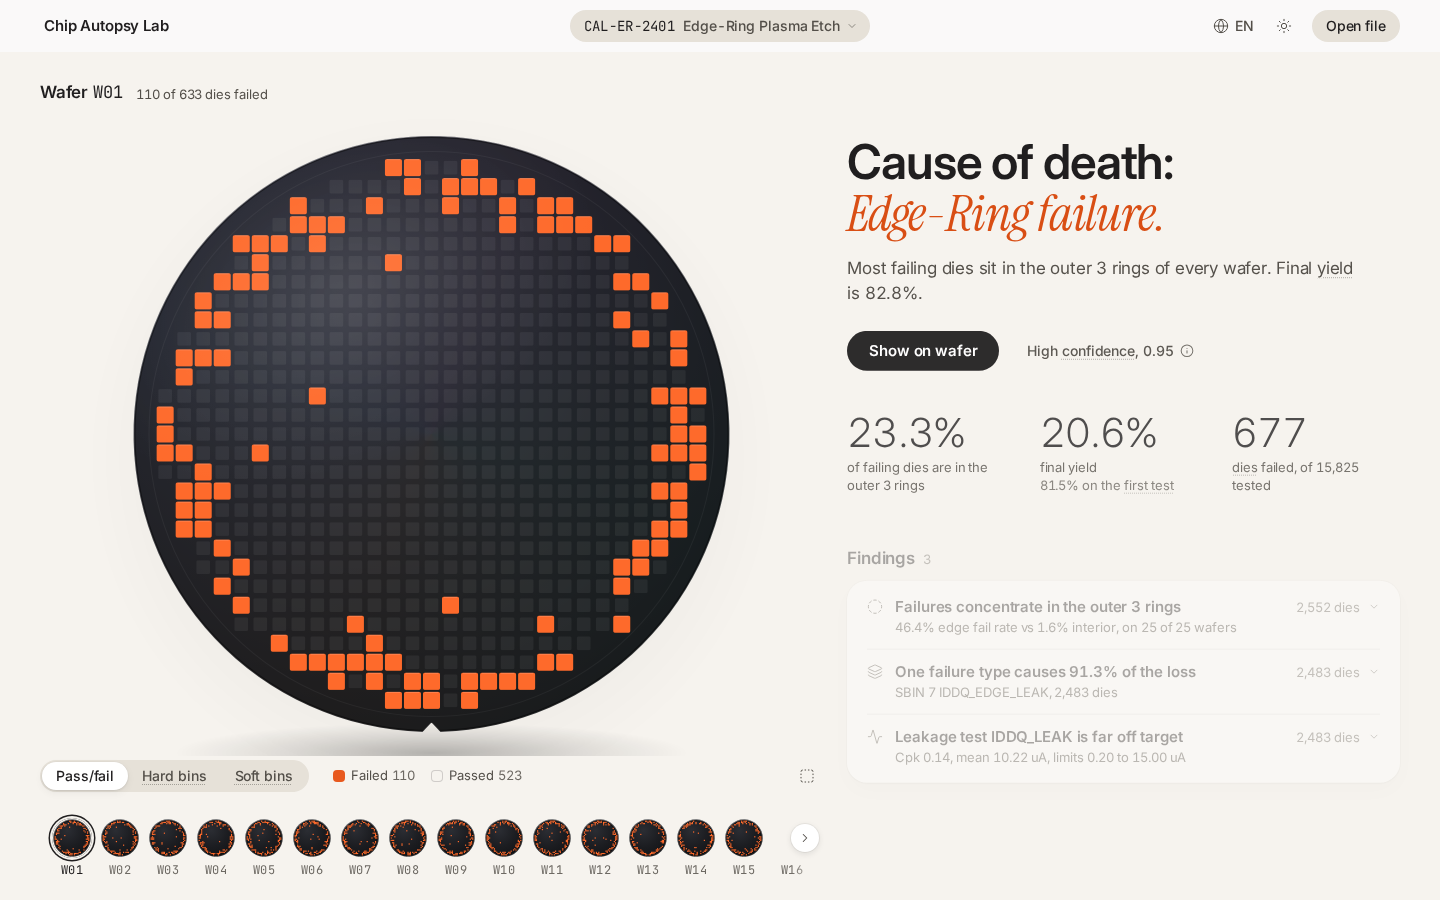
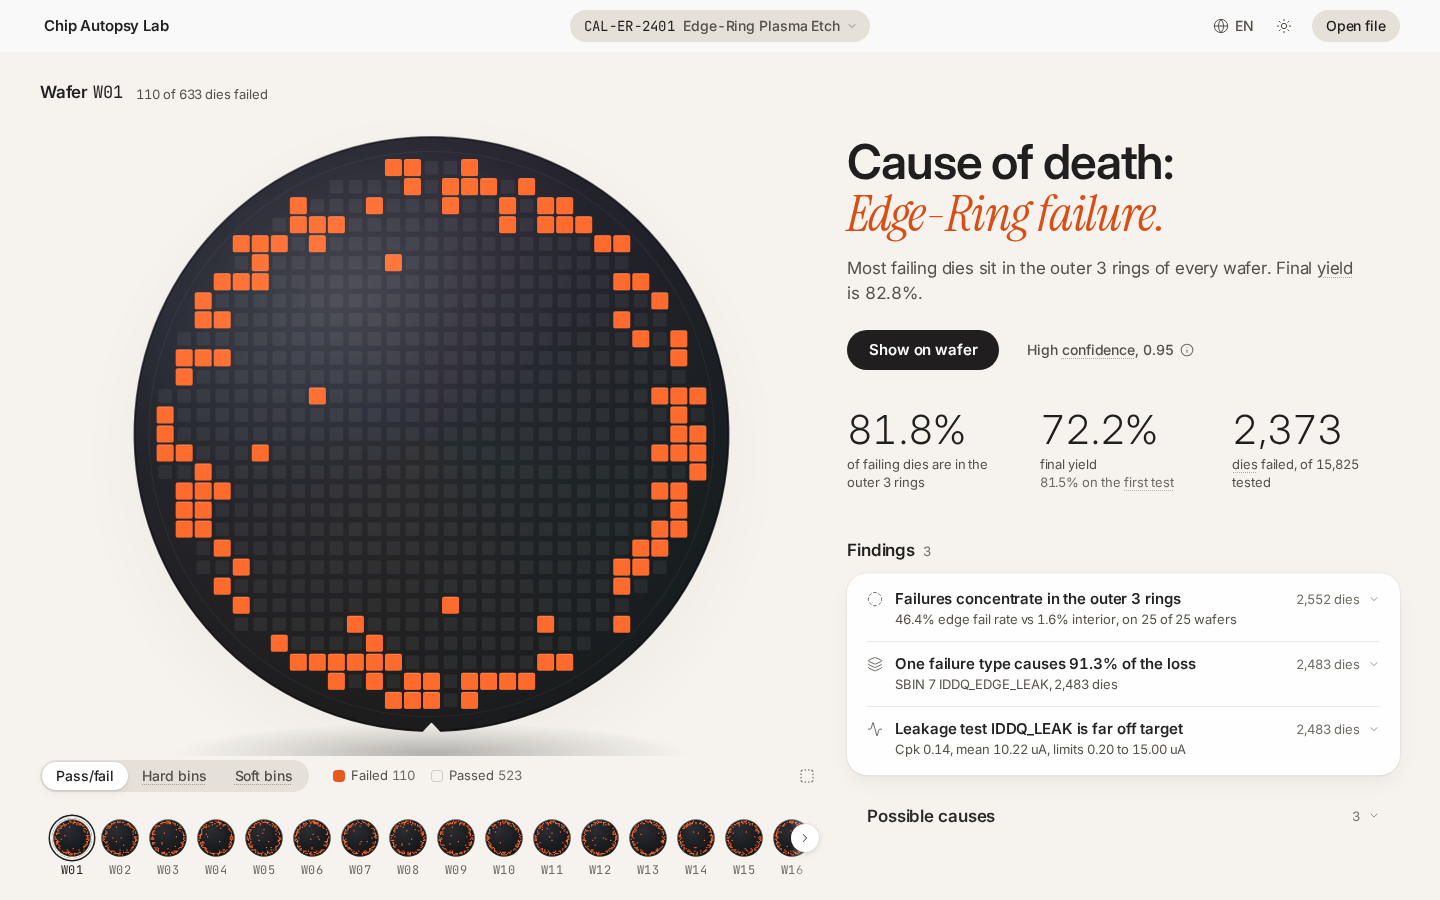
p28-cont (Kiro claude-opus-5.5)

diff --git a/e2e/loaded-desktop-p12.spec.ts b/e2e/loaded-desktop-p12.spec.ts
@@ -19,6 +19,17 @@ async function loadDemo(page: Page, width: number, height: number, presetId: str
   });
   await expect(page.getByTestId('verdict-headline')).toBeVisible();
   await expect(page.getByTestId('autopsy-hypotheses-toggle')).toBeVisible();
+  // Measure final geometry: wait for the §8.2 verdict rise-in to settle (no block still moving)
+  await page.waitForFunction(() => {
+    const blocks = document.querySelectorAll<HTMLElement>('[data-verdict-rise-block]');
+    return (
+      blocks.length === 6 &&
+      Array.from(blocks).every((el) => {
+        const cs = getComputedStyle(el);
+        return cs.opacity === '1' && (cs.transform === 'none' || /, 0\)$/.test(cs.transform));
+      })
+    );
+  });
 }
 
 async function measure(page: Page) {

diff --git a/logs/progress.md b/logs/progress.md
@@ -219,3 +219,8 @@
 - Probe sweep and ignite per premium §8.1, §8.16. The session flag is now `sessionStorage["cal.sweep.v1"]` (was `cal.sweep.seen`, so the e2e specs that set `cal.sweep.v1` now really skip the sweep). Pacing is `p(t) = min(parse, t / 900 ms)` (linear, was ease-in-out sine). The `probe-light` sprite is white 0.28 gaussian with radius 3 pitches (was 35 % ice blue, 1.5 pitches), fading in over the first 120 ms and out over the last 160 ms (`computeProbeLightOpacity`, `setProbeHeadDieIndex(die, opacity)`). The stage caption reads "Reading…" during the sweep and swaps to "N of M dies failed" at ignite start (set imperatively, so no stage render). Later loads skip to the ignite step (all pass tiles, then the 280 ms fail-canvas ignite, `data-sweep="ignite"`) instead of the 240 ms base fade. Reduced motion now plays the 120 ms base-canvas opacity fade. Key, click, and wheel still complete the sweep at once.
 - Verified: typecheck and lint clean, `pnpm test` 336/336 (54 files; probe-sweep tests updated for linear pacing, the light envelope, the `ignite` plan, and a zero-opacity light). After a fresh build, e2e `probe-sweep-p27` (new: A37 ~500 ms frame, <= 1.2 s, key skip on the next frame, later-load ignite, A36 sweep part; 4/4) passes, as do `coach-marks-p25`, `disc-material-p5`, `die-tiles-p6`, `overlay-states-p8`, `wafer-stage-r6`, `verdict-p17`, `findings-p19`, `editorial-p26b`, `landing-p11`, `stage-shadows-p7`, `loaded-desktop-p12`, `stage-controls-p10`, and `i18n-p26`. `perf-gate` failed only its known long-frame step, and `linked-interactions-r7` failed only its known 780 ms settle step. No snapshot changes.
 - Decisions (restrained): the verdict still starts at 85 % of the sweep; moving its trigger to ignite start is left to P28 (§8.2). Under reduced motion `data-sweep` reads `done` at once, and the 120 ms fade is linear opacity. Coach marks also wait while `data-sweep="ignite"`.
+
+## 2026-11-18 — Premium P28 complete
+- Verdict reveal per premium §8.2, §11.5: six `VerdictRiseBlock`s (headline, takeaway, action row, stats, findings, causes) rise `opacity 0→1`, `translateY(12→0)` on `spring-ui` with a 60 ms stagger, starting at ignite start (was 85 % of the sweep); once per lot, so wafer switches never replay it. Ref-based `CountUp` (`src/ui/primitives/count-up.tsx`) and the stat row count 0 → value in the final format with `.count-up` holding the final width; the landing example percent and the "Where the yield went" pills use the same rule. Pointer or key input in the verdict column completes every block and count at once; reduced motion fades all blocks together in 120 ms with final numbers.
+- Verified: typecheck and lint clean, `pnpm test` 336/336 (54 files). After a fresh build, e2e `verdict-reveal-p28` 5/5 (its stagger-timing step failed once under parallel load, then passed 3/3 alone), plus `verdict-p17`, `stats-p18`, `probe-sweep-p27`, `findings-p19`, `landing-p11`, `pareto-p20`, `coach-marks-p25`, `loaded-desktop-p12`, `editorial-p26b`, `i18n-p26`, `yield-summary-p21`, `loaded-responsive-p13`, `typography-p4`, and `vertical-slice` pass. No snapshot changes. No new locale keys.
+- Decisions: §8.2 (700 ms `ease-out-expo`) and §11.5 (600 ms `ease-out-quart`) disagree on the count-up; §11.5 is the later, P28-specific rule, so the count uses 600 ms quart, and selection-linked updates keep 300 ms expo. `loaded-desktop-p12` now waits for the rise-in to settle before measuring layout, because the causes block was still 1 px into its translate.

diff --git a/.kiro/specs/chip-autopsy-lab/tasks.md b/.kiro/specs/chip-autopsy-lab/tasks.md
@@ -316,7 +316,7 @@ Specification: `.kiro/specs/chip-autopsy-lab/premium.md` (supersedes `redesign.m
 - [x] P27. Probe sweep and ignite
   - Session flag, progress pacing, probe light, 280 ms ignite, skip on any input, reduced-motion fade, `data-sweep` (premium §8.1).
   - Accept: A37, A36 (sweep part).
-- [ ] P28. Verdict reveal and count-up
+- [x] P28. Verdict reveal and count-up
   - Six-block stagger with `spring-ui`, ref-based count-up, interrupt on input, reduced-motion path (premium §8.2).
   - Accept: A36 (also apply premium §11.5).
 - [ ] P29. Evidence ignite and camera focus
